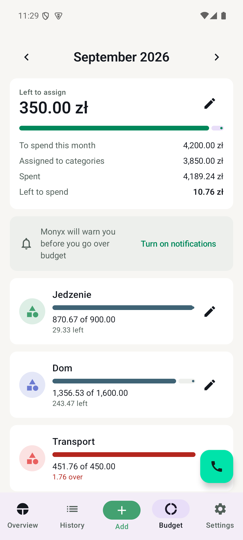
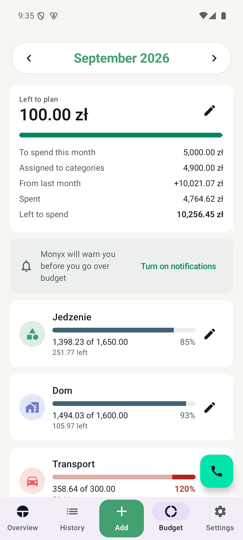
Reshoot the screenshots against what the app looks like now
Every shot predated something. The summary still had income and spending
side by side rather than the statement that lands on Stan kont; the budget
still drew a full red bar whether a limit was missed by four zloty or by
four hundred; settings listed accounts in one flat list. Six of them were
answering questions the app stopped asking.

Shot from one coherent household so the figures agree across the set: a
joint account and a personal one, savings outside the summary, a finished
holiday fund in the archive, twelve months of groceries and bills and
children behind them. The statement closes — 10,021.07 carried in, 5,350.00
earned, 4,764.62 spent, 10,606.45 in the accounts — because a reader who
adds up the numbers in a README is exactly the reader worth having.

Adds the day-by-day face, which nothing showed before, and it earns its
place: one bar per day with the costliest one labelled is the view that
answers "what happened on the 27th".

diff --git a/README.md b/README.md
@@ -14,16 +14,18 @@
 
 <table>
   <tr>
-    <td align="center" width="16%"><img src="docs/screenshots/overview.png" alt="The month's income, spending and the difference between them, with account filters and a category breakdown" width="100%"></td>
-    <td align="center" width="16%"><img src="docs/screenshots/trends.png" alt="Twelve months of spending as stacked bars by category, the budget as a red line over them, and a switch between a normal month and the selected one" width="100%"></td>
-    <td align="center" width="16%"><img src="docs/screenshots/add.png" alt="Adding an expense on the built-in keypad" width="100%"></td>
-    <td align="center" width="16%"><img src="docs/screenshots/history.png" alt="Transaction history with search, and filters by account, category and subcategory" width="100%"></td>
-    <td align="center" width="16%"><img src="docs/screenshots/budget.png" alt="Monthly plan and per-category budgets" width="100%"></td>
-    <td align="center" width="16%"><img src="docs/screenshots/settings.png" alt="Accounts and categories in settings" width="100%"></td>
+    <td align="center" width="14%"><img src="docs/screenshots/overview.png" alt="The month's income, spending and the difference between them, with account filters and a category breakdown" width="100%"></td>
+    <td align="center" width="14%"><img src="docs/screenshots/trends.png" alt="Twelve months of spending as stacked bars by category, the budget as a red line over them, and a switch between a normal month and the selected one" width="100%"></td>
+    <td align="center" width="14%"><img src="docs/screenshots/days.png" alt="One bar per day for the last thirty-one days, with the costliest day labelled, tappable to open that day in the ledger" width="100%"></td>
+    <td align="center" width="14%"><img src="docs/screenshots/add.png" alt="Adding an expense on the built-in keypad" width="100%"></td>
+    <td align="center" width="14%"><img src="docs/screenshots/history.png" alt="Transaction history with search, and filters by account, category and subcategory" width="100%"></td>
+    <td align="center" width="14%"><img src="docs/screenshots/budget.png" alt="Monthly plan and per-category budgets, with a bar that shows how far past a limit the spending went" width="100%"></td>
+    <td align="center" width="14%"><img src="docs/screenshots/settings.png" alt="Accounts grouped by whether they count towards the summary, and categories, in settings" width="100%"></td>
   </tr>
   <tr>
     <td align="center"><b>Summary</b><br>the launch screen</td>
     <td align="center"><b>12 months</b><br>the same card, turned over</td>
+    <td align="center"><b>31 days</b><br>and once more, day by day</td>
     <td align="center"><b>Add</b><br>keypad and calculator</td>
     <td align="center"><b>History</b><br>search and filter</td>
     <td align="center"><b>Budget</b><br>plan and limits</td>
